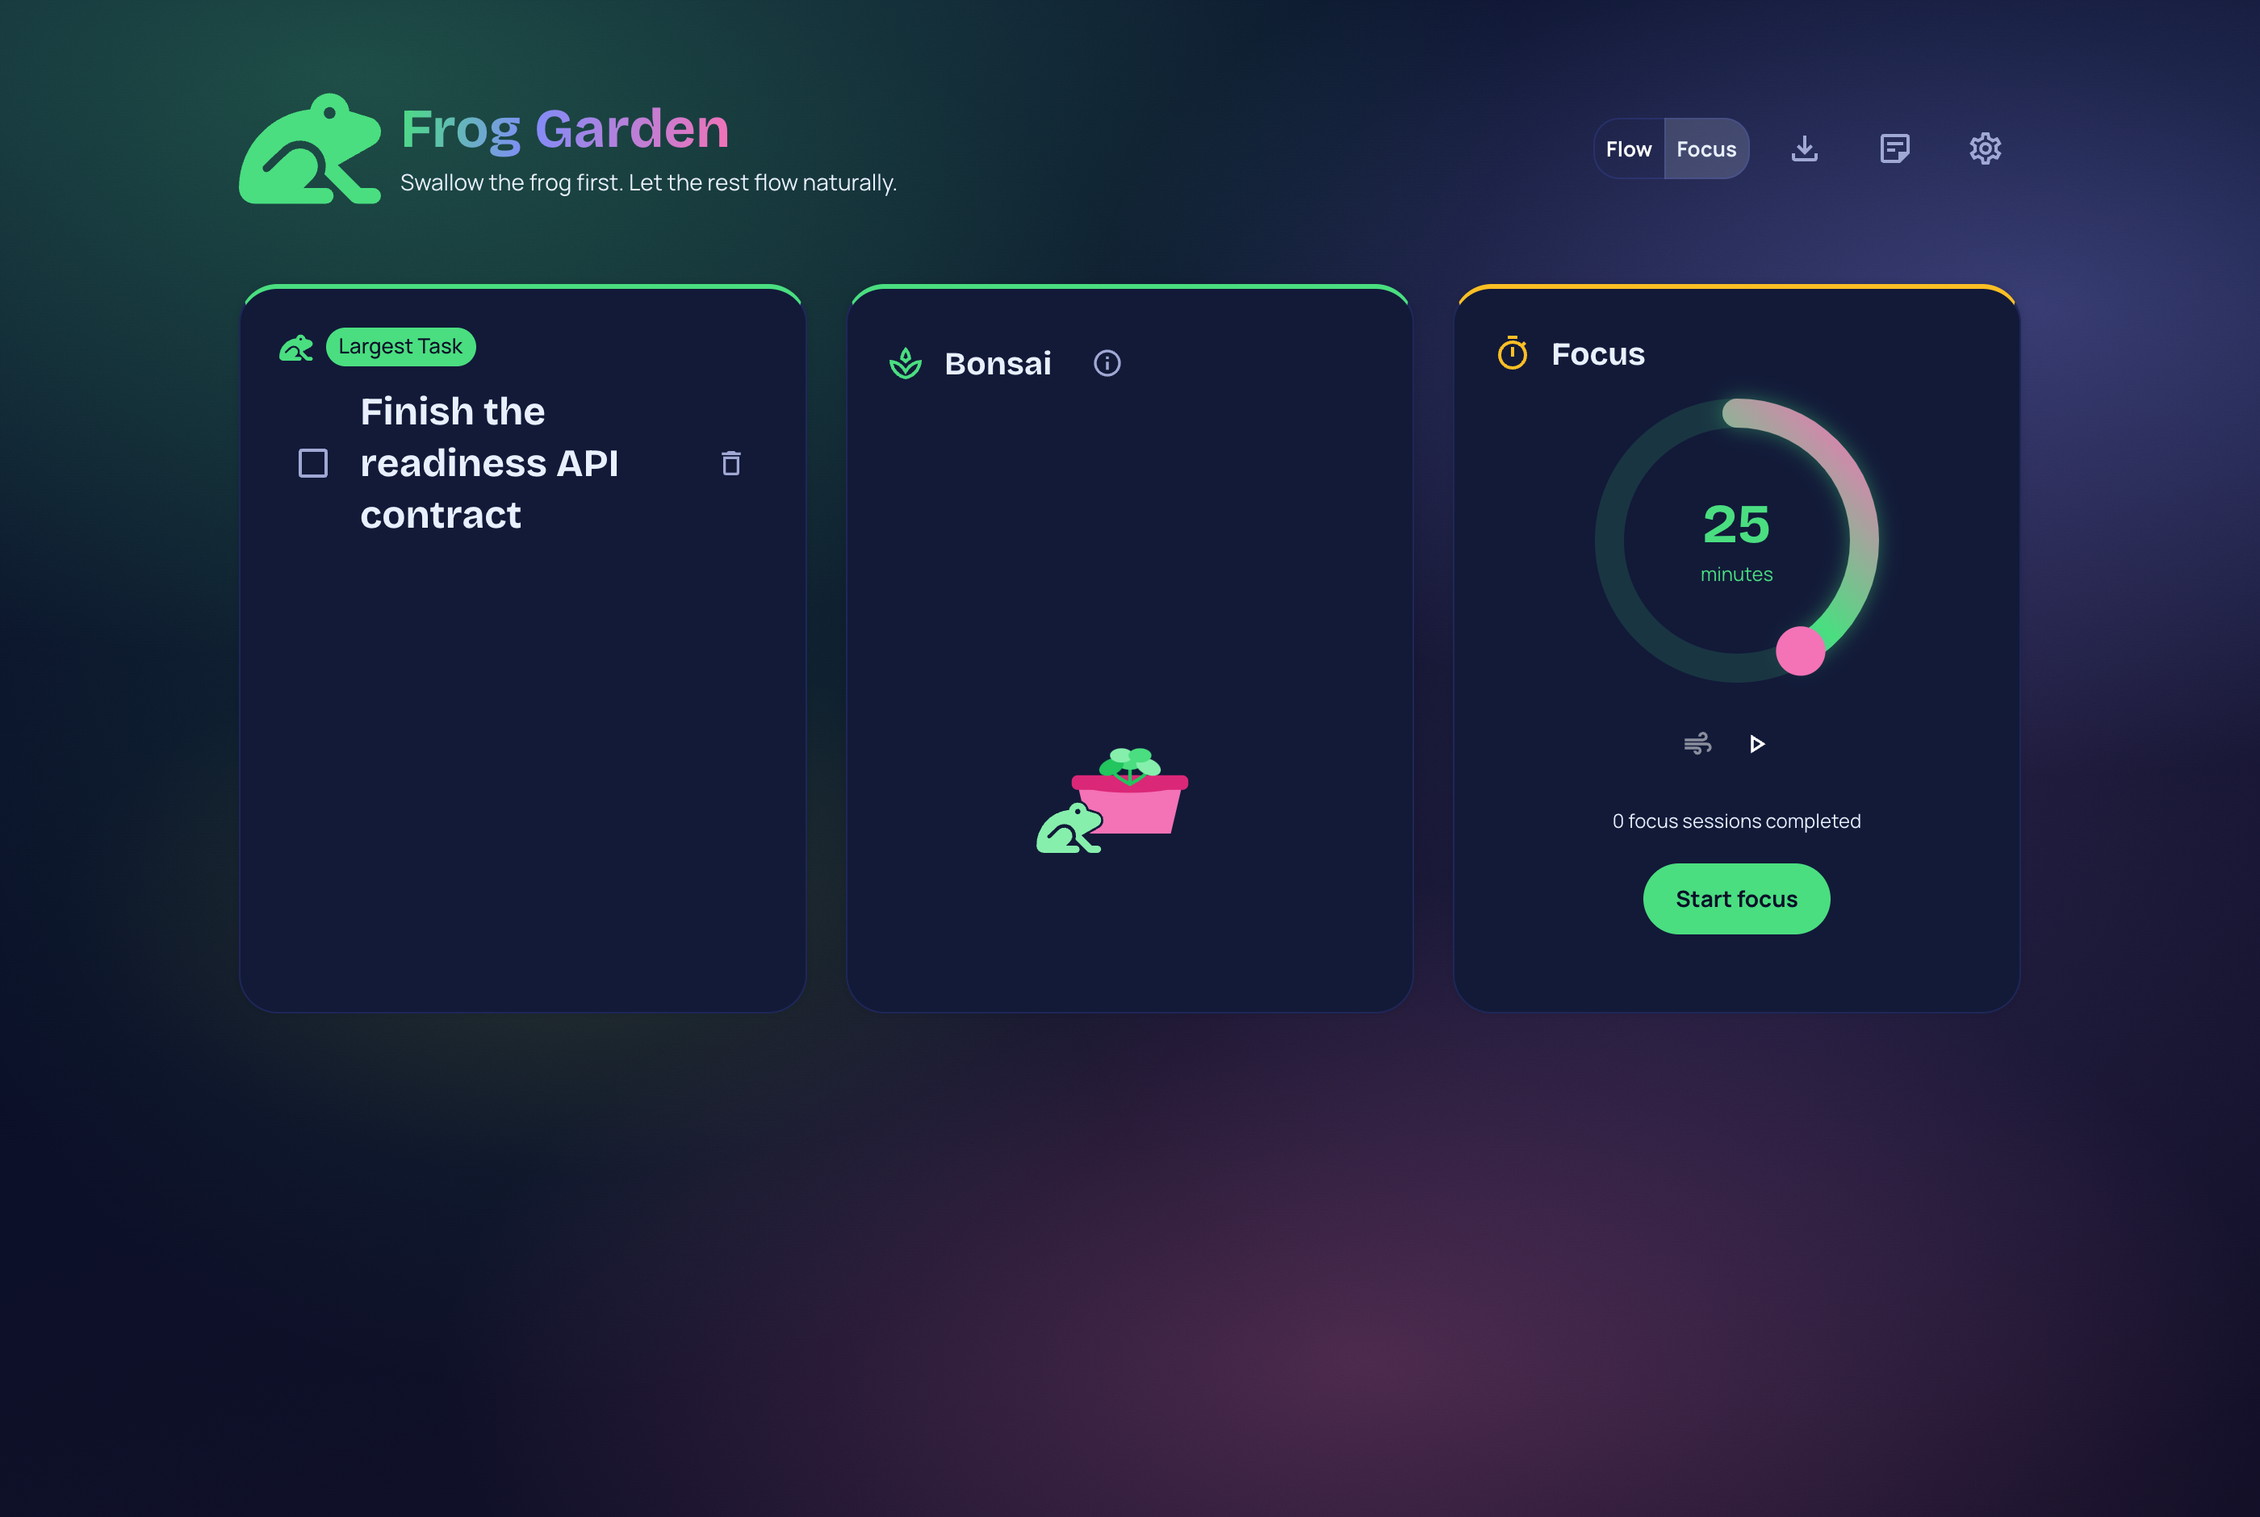
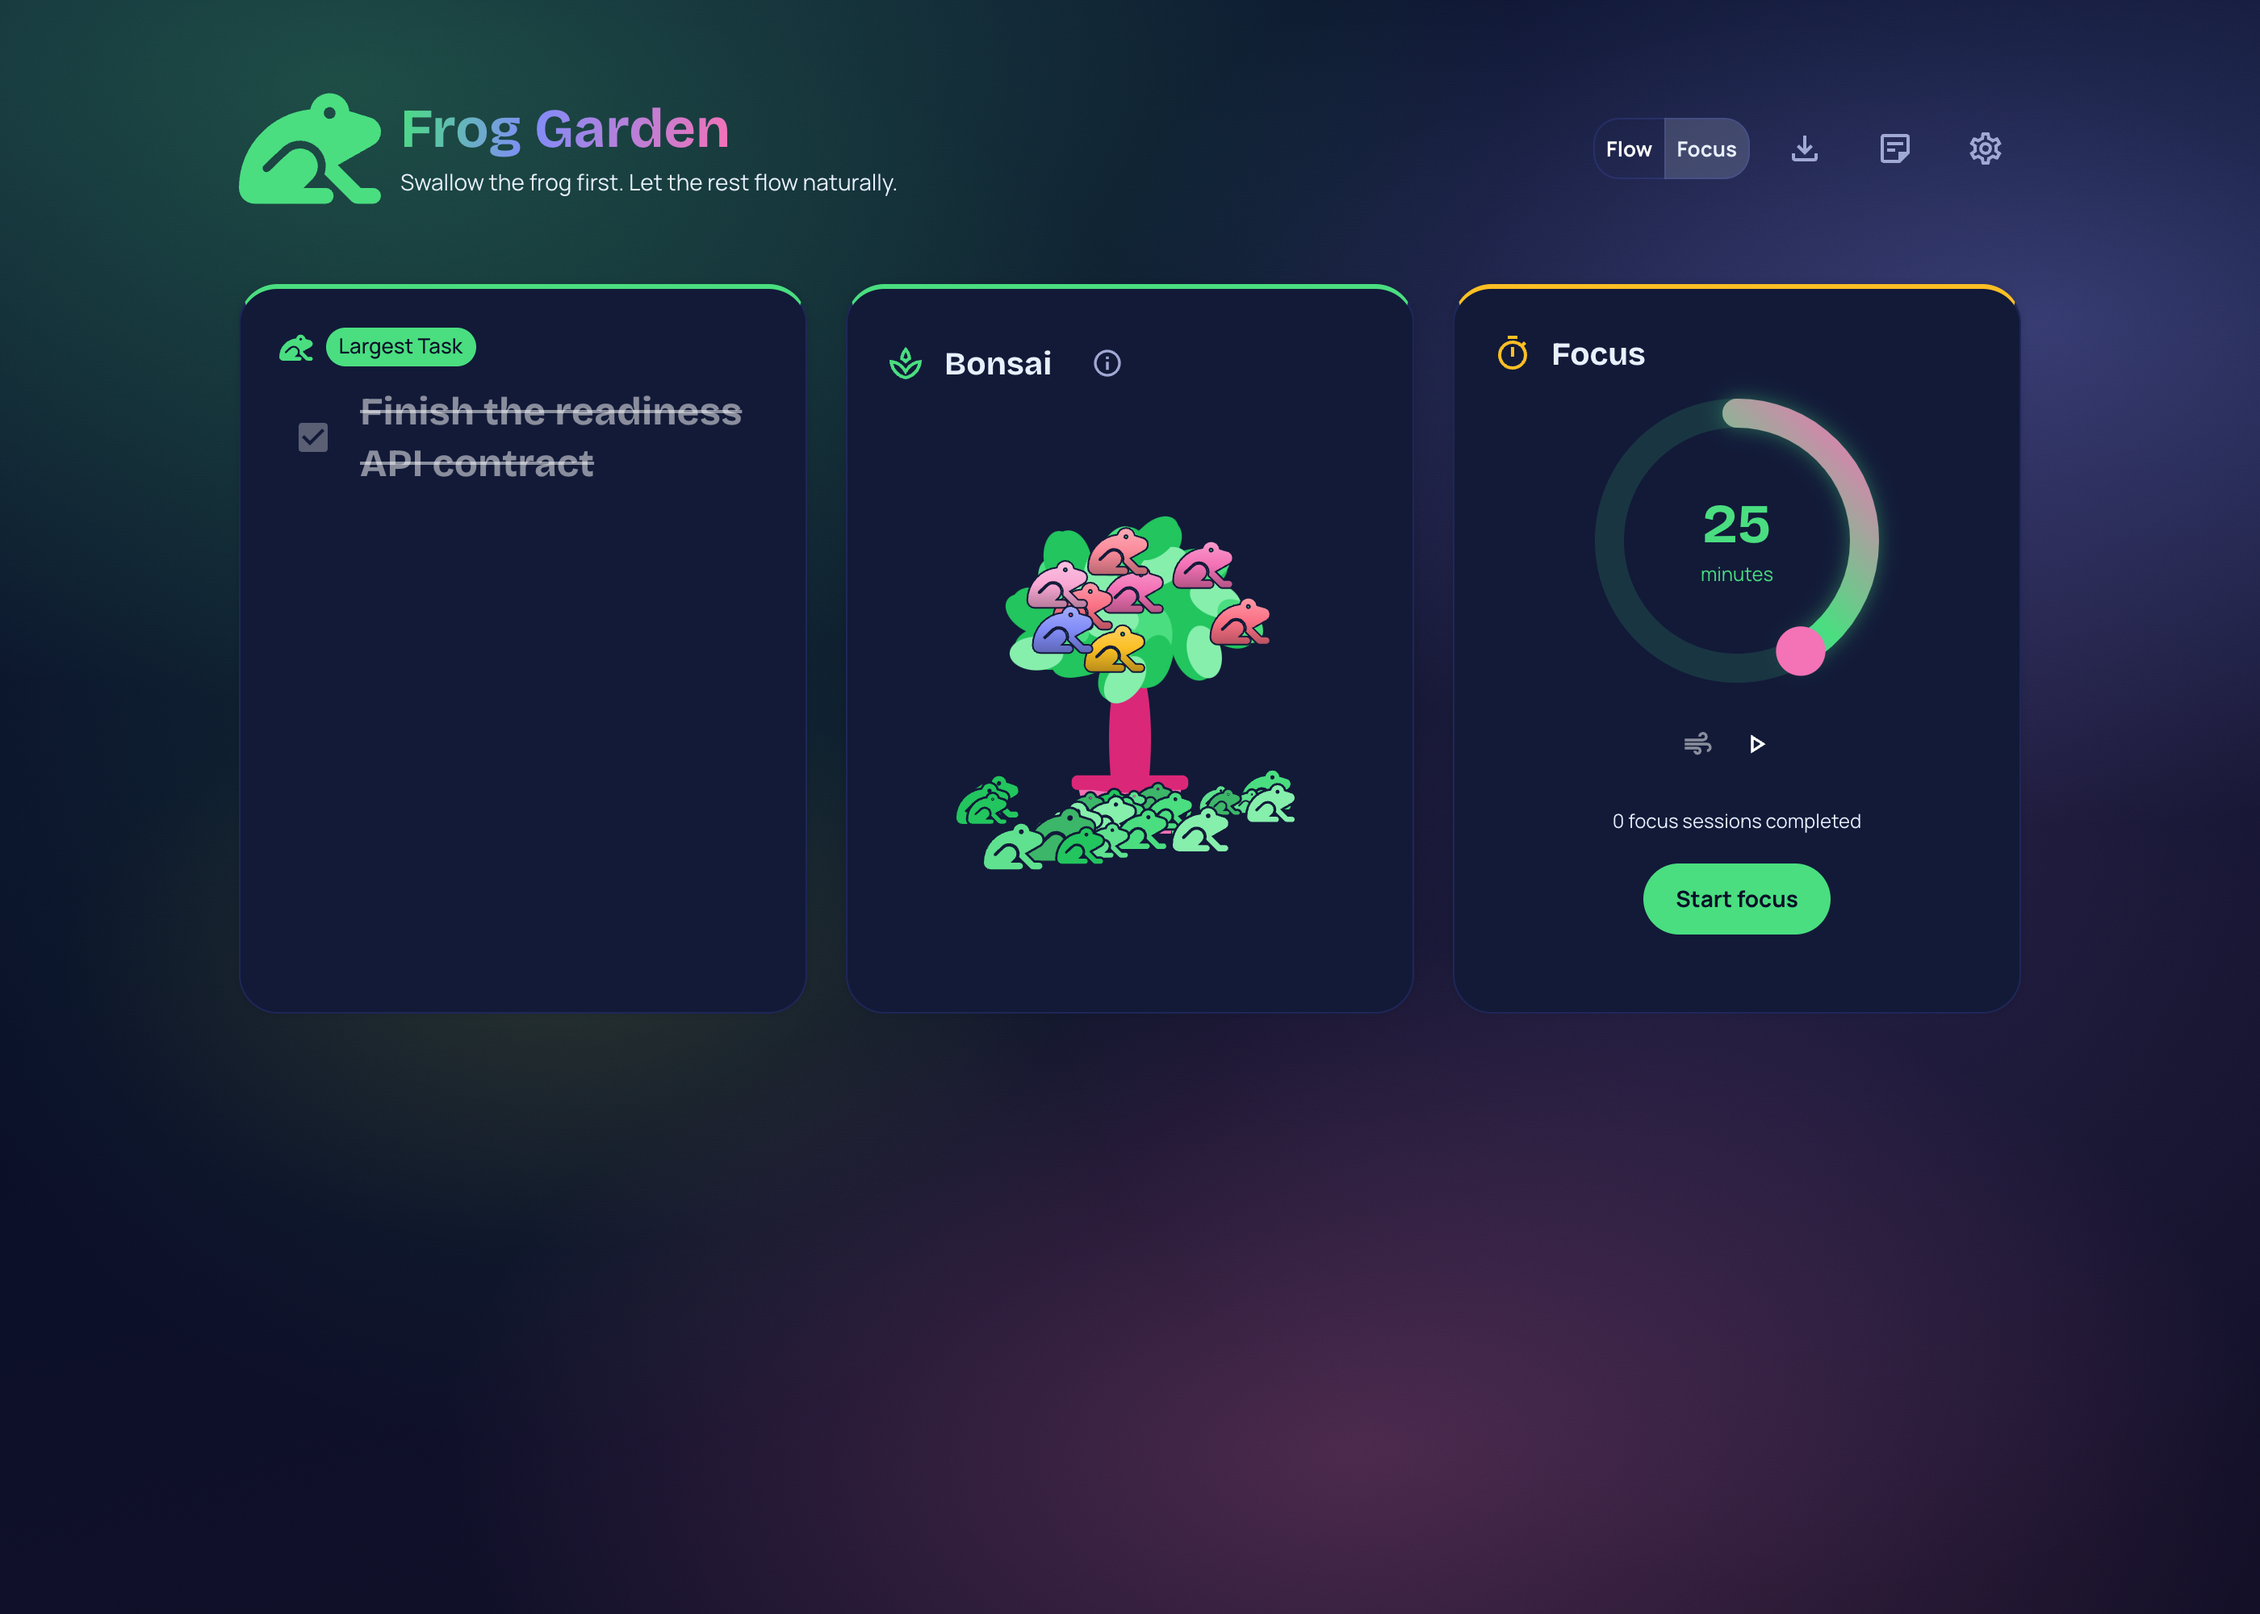
feat(projects): make the Frog Garden shots show the actual product
The five screenshots showed an empty garden: a bare tree, no frogs, an
untouched sand tray. That is the app on its first run, not the app.

Seeded a full day's work into the tree instead, so the canopy is mature
and the frogs have gathered around the pot -- and the sand is genuinely
raked, drawn with real pointer input through the debugging protocol
rather than faked, because the tray only responds to actual pointer
events. Vibrant palettes lead: Prism Bloom, Tropic Punch and Mirrorball,
with the options pane open on the third so the palette picker, contrast
and density controls are visible.

Also replaces HikingTool's all-hikes screenshot with seven real
Washington hikes -- Mount Si, Colchuck Lake, Maple Pass Loop and the
rest -- where the time estimates beside each are the app's own
arithmetic over the distances and gains.

Standing that app up needed three fixes, none of them in this repo:
bcrypt 3.0.2 will not build a native binary on Node 22 and was swapped
for bcryptjs, which is API-compatible for the promise-based hash and
compare it uses; Mongoose 4.9.1 speaks OP_QUERY, which MongoDB 6 has
removed, so it went to 6.12; and bower_components was never committed,
so every AngularJS asset was silently 200ing with the history
fallback's HTML and the app booted to a blank page.

The Stats panel is deliberately not included: it counts only hikes with
completed pre- and post-trip reports, so it reads 0 miles until those
are seeded too.

Refs #74

diff --git a/src/components/main/projects/FrogGarden.js b/src/components/main/projects/FrogGarden.js
@@ -6,10 +6,10 @@ import Row from "react-bootstrap/Row";
 import { FaGithub, FaExternalLinkAlt } from "react-icons/fa";
 import frogGardenIco from "../../../assets/images/apps/froggarden-ico.png";
 import focusMode from "../../../assets/images/projects/froggarden/focus-mode.png";
-import quietGrove from "../../../assets/images/projects/froggarden/quiet-grove.png";
-import sakuraDrift from "../../../assets/images/projects/froggarden/sakura-drift.png";
+import garden from "../../../assets/images/projects/froggarden/garden.png";
+import options from "../../../assets/images/projects/froggarden/options.png";
 import taskList from "../../../assets/images/projects/froggarden/task-list.png";
-import violetHour from "../../../assets/images/projects/froggarden/violet-hour.png";
+import tropicPunch from "../../../assets/images/projects/froggarden/tropic-punch.png";
 import ProjectGallery from "./ProjectGallery";
 
 const REPO = "https://github.com/twknab/zen-frog-todo";
@@ -18,12 +18,15 @@ const LIVE = "https://zenfrog.netlify.app";
 // The app ships eighteen palettes, so three of the most distinct lead --
 // the range is the feature. Captured from the running app with the same
 // seeded tasks, so the only thing changing between them is the theme.
+// Captured from a seeded garden: a full day's work grown into the tree, so
+// the canopy is mature, the frogs have gathered, and the sand is actually
+// raked -- the strokes are drawn with real pointer input, not faked.
 const SHOTS = [
-  { src: quietGrove, alt: "Quiet Grove, the default" },
-  { src: violetHour, alt: "Violet Hour" },
-  { src: sakuraDrift, alt: "Sakura Drift, in light mode" },
-  { src: taskList, alt: "The day's tasks, largest one first" },
+  { src: garden, alt: "A day's work grown: full canopy, frogs, raked sand" },
+  { src: tropicPunch, alt: "The same garden in Tropic Punch" },
+  { src: options, alt: "Palette, contrast and density, in Mirrorball" },
   { src: focusMode, alt: "A focus session" },
+  { src: taskList, alt: "The day's tasks" },
 ];
 
 function FrogGarden() {
